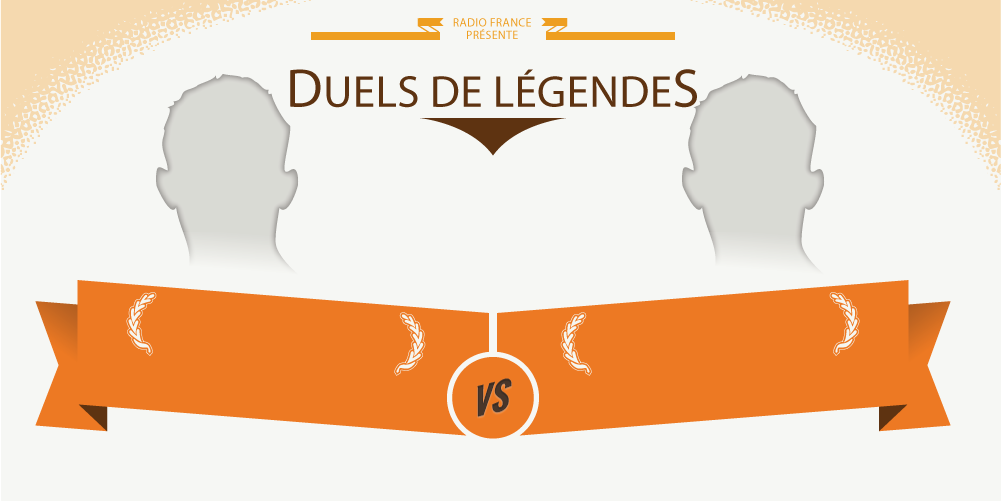
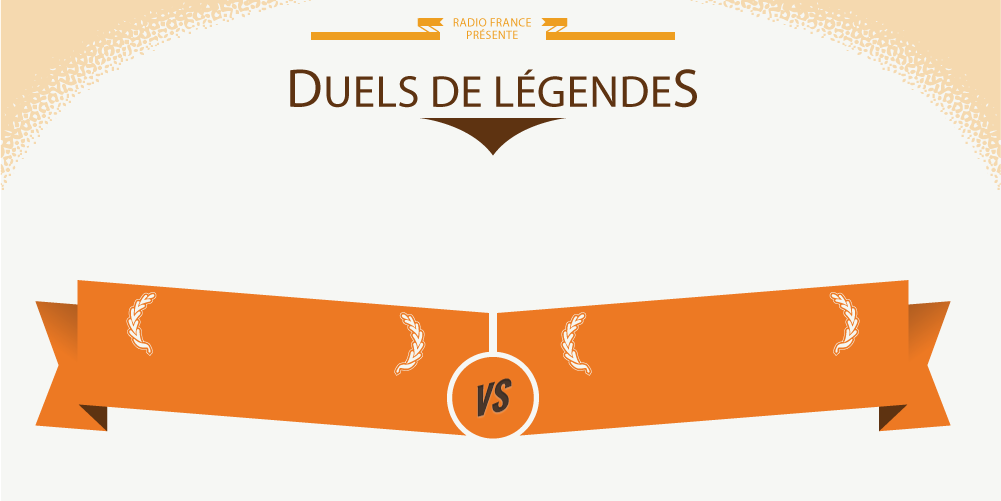
update écran hp duels + gestion année 2013 dans affichage des tracés

Changed region(s): [[0.6813, 0.1497, 0.8362, 0.509], [0.1548, 0.1497, 0.3097, 0.509]]

diff --git a/web/src/js/main.js b/web/src/js/main.js
@@ -767,8 +767,7 @@ TDF.Traces = (function() {
 		$main.find(".nb_finishers .current").html(nb_finishers);
 
 		// Winners
-
-		if (my.args.years.length === 1) {
+		if ( (my.args.years.length === 1) && (my.args.years.join(',') !== '2013') ) {
 			$main.find('.traces-right').removeClass('disabled');
 
 			trace = TDF.Data.traces[my.args.years[0]];
@@ -1220,7 +1219,7 @@ TDF.Fight = (function() {
 				$fighter = $main.find('.fighter_one');
 				$fighter.data('id', my.args.fighter_one);
 				$fighter.find('.name').html('<em>' + fighter.first_name + '</em> <span> ' + fighter.last_name + '</span>');
-				$inner.find('#fighter_one_pic img').attr('src', '/img/vainqueurs/portraits/' + my.args.fighter_one + '_huge.png');
+				$inner.find('#fighter_one_pic img').attr('src', '/img/vainqueurs/portraits/' + my.args.fighter_one + '_big.png');
 				$fighter.find('.flag img').attr('src', '/img/drapeaux/' + (fighter.country ? fighter.country.replace(' ', '-').replace('É', 'e').toLowerCase() : '') + '_big.png');
 				$fighter.find('.flag').css('display', 'block');
 				$fighter.find('.bio').css('display', 'block').html((fighter_data ? 'participe entre ' + fighter_data.period.join(' et ') : '') + (fighter.nb_wins ? ' - ' + fighter.nb_wins + ' victoire' + (fighter.nb_wins > 1 ? 's' : '') : ''));
@@ -1242,7 +1241,7 @@ TDF.Fight = (function() {
 				$fighter = $main.find('.fighter_two');
 				$fighter.data('id', my.args.fighter_two);
 				$fighter.find('.name').html('<em>' + fighter.first_name + '</em> <span> ' + fighter.last_name + '</span>');
-				$inner.find('#fighter_two_pic img').attr('src', '/img/vainqueurs/portraits/' + my.args.fighter_two + '_huge.png');
+				$inner.find('#fighter_two_pic img').attr('src', '/img/vainqueurs/portraits/' + my.args.fighter_two + '_big.png');
 				$fighter.find('.flag img').attr('src', '/img/drapeaux/' + (fighter.country ? fighter.country.replace(' ', '-').replace('É', 'e').toLowerCase() : '') + '_big.png');
 				$fighter.find('.flag').css('display', 'block');
 				$fighter.find('.bio').css('display', 'block').html(TDF.Data.winners[my.args.fighter_one] ? fighter.nb_wins + ' victoire' + (fighter.nb_wins > 1 ? 's' : '') : '');
@@ -1252,11 +1251,9 @@ TDF.Fight = (function() {
 
 		if (my.args.fighter_one === 'selector') {
 			my.showSelector('fighter_one');
-			jQuery('.tabs').tabify();
 		} else {
 			if (my.args.fighter_two === 'selector') {
 				my.showSelector('fighter_two');
-				jQuery('.tabs').tabify();
 			} else {
 				my.hideSelector();
 			}
@@ -1354,6 +1351,7 @@ TDF.Fight = (function() {
 
 		$main.find('.selector .random').attr('href', $main.find('.selector .legends .winner a').eq(Math.round(Math.random() * $main.find('.selector .legends .winner a').length)).attr('href'));
 
+		jQuery('.tabs').tabify();
 	};
 
 	my.fight = function() {

diff --git a/web/src/index.html b/web/src/index.html
@@ -289,8 +289,8 @@
 					<h3 class="visuallyhidden">Radio France Présente</h3>
 					<h2 class="visuallyhidden">Duels de Légendes</h2>
 					<div class="fighter_pics">
-						<div id="fighter_one_pic"><img src="" alt=""></div>
-						<div id="fighter_two_pic"><img src="" alt=""></div>
+						<div id="fighter_one_pic"><img src="/img/duels/fighter-default.png" alt=""></div>
+						<div id="fighter_two_pic"><img src="/img/duels/fighter-default.png" alt=""></div>
 					</div>
 					<div class="fighter_one fighter" data-fighter="fighter_one" data-id="">
 						<div class="name"><strong>Votre Joueur</strong></div>
@@ -313,16 +313,16 @@
 				<div class="clearfix">
 					<a class="random left" href="">Au hasard</a>
 					<ul class="tabs left unstyled">
-						<li class="winners active"><a href="#winner-block">Vainqueurs</a></li>
-						<li class="legends"><a href="#legends-block">Légendes du tour</a></li>
+						<li class="winners"><a href="#winner-block">Vainqueurs</a></li>
+						<li class="legends active"><a href="#legends-block">Légendes du tour</a></li>
 					</ul>
 				</div>
-				<div class="winners clearfix" id="winner-block">
+				<div class="winners winner-block clearfix" id="winner-block">
 					<div class="winners_list">
 						<ul class="unstyled"></ul>
 					</div>
 				</div>
-				<div class="legends clearfix" id="legends-block">
+				<div class="legends winner-block clearfix" id="legends-block">
 					<div class="winners_list">
 						<ul class="unstyled"></ul>
 					</div>

diff --git a/web/src/scss/_fights.scss b/web/src/scss/_fights.scss
@@ -544,7 +544,7 @@
 	padding:20px 0 0 0;
 }
 
-#winner-block {
+.winner-block {
 	background:#E7E8DF;
 	border-radius:0 0 4px 4px;
 	padding:0 0 12px 0;
@@ -553,12 +553,12 @@
 	box-shadow: 0 -8px 8px rgba(0, 0, 0, 0.2);
 }
 
-#winner-block .winners_list {
+.winner-block .winners_list {
 	background:#E7E8DF;
 	height:402px;
 }
 
-#winner-block .winners_list > ul {
+.winner-block .winners_list > ul {
 	padding:10px 50px;
 }
 
@@ -602,4 +602,16 @@
 .tabs .active a {
 	background:#E7E8DF;
 	color:#383C40;
+}
+
+#fighter_one_pic {
+	position: absolute;
+	left: 153px;
+	top: 75px;
+}
+
+#fighter_two_pic {
+	position: absolute;
+	left: 690px;
+	top: 75px;
 }
